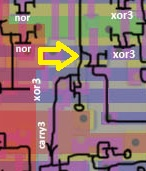
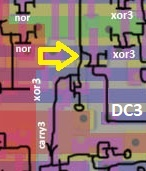
DC3

diff --git a/BreakingNESWiki_DeepL/6502/alu.md b/BreakingNESWiki_DeepL/6502/alu.md
@@ -95,7 +95,7 @@ This is the circuit that appears in patent US 3991307 (https://patents.google.co
 
 The schematics are "layered on the side" for easy perception.
 
-The unmarked output is connected to the carry chain as follows:
+`DC3` output is connected to the carry chain as follows:
 
 ![alu_carry3_tran](/BreakingNESWiki/imgstore/alu_carry3_tran.jpg)
 
@@ -130,7 +130,7 @@ Circuits for obtaining auxiliary signals:
 |---|---|---|
 |![alu_daal_tran](/BreakingNESWiki/imgstore/alu_daal_tran.jpg)|![alu_dsal_tran](/BreakingNESWiki/imgstore/alu_dsal_tran.jpg)|![alu_dsah_tran](/BreakingNESWiki/imgstore/alu_dsah_tran.jpg)|
 
-The `DAAH` circuit is in the carryover circuit.
+The `DAAH` circuit is in the carry circuit.
 
 The correction circuits use a common motif:
 - The input combinatorial circuits, in various combinations accounting for the 4 auxiliary signals and the bits of the intermediate result (ADD latches)

diff --git a/BreakingNESWiki/6502/alu.md b/BreakingNESWiki/6502/alu.md
@@ -95,7 +95,7 @@
 
 Схемы для удобства восприятия "положены на бок".
 
-Необозначенный выход подключается к цепочке переносов следующим образом:
+Выход `DC3` подключается к цепочке переносов следующим образом:
 
 ![alu_carry3_tran](/BreakingNESWiki/imgstore/alu_carry3_tran.jpg)
 
